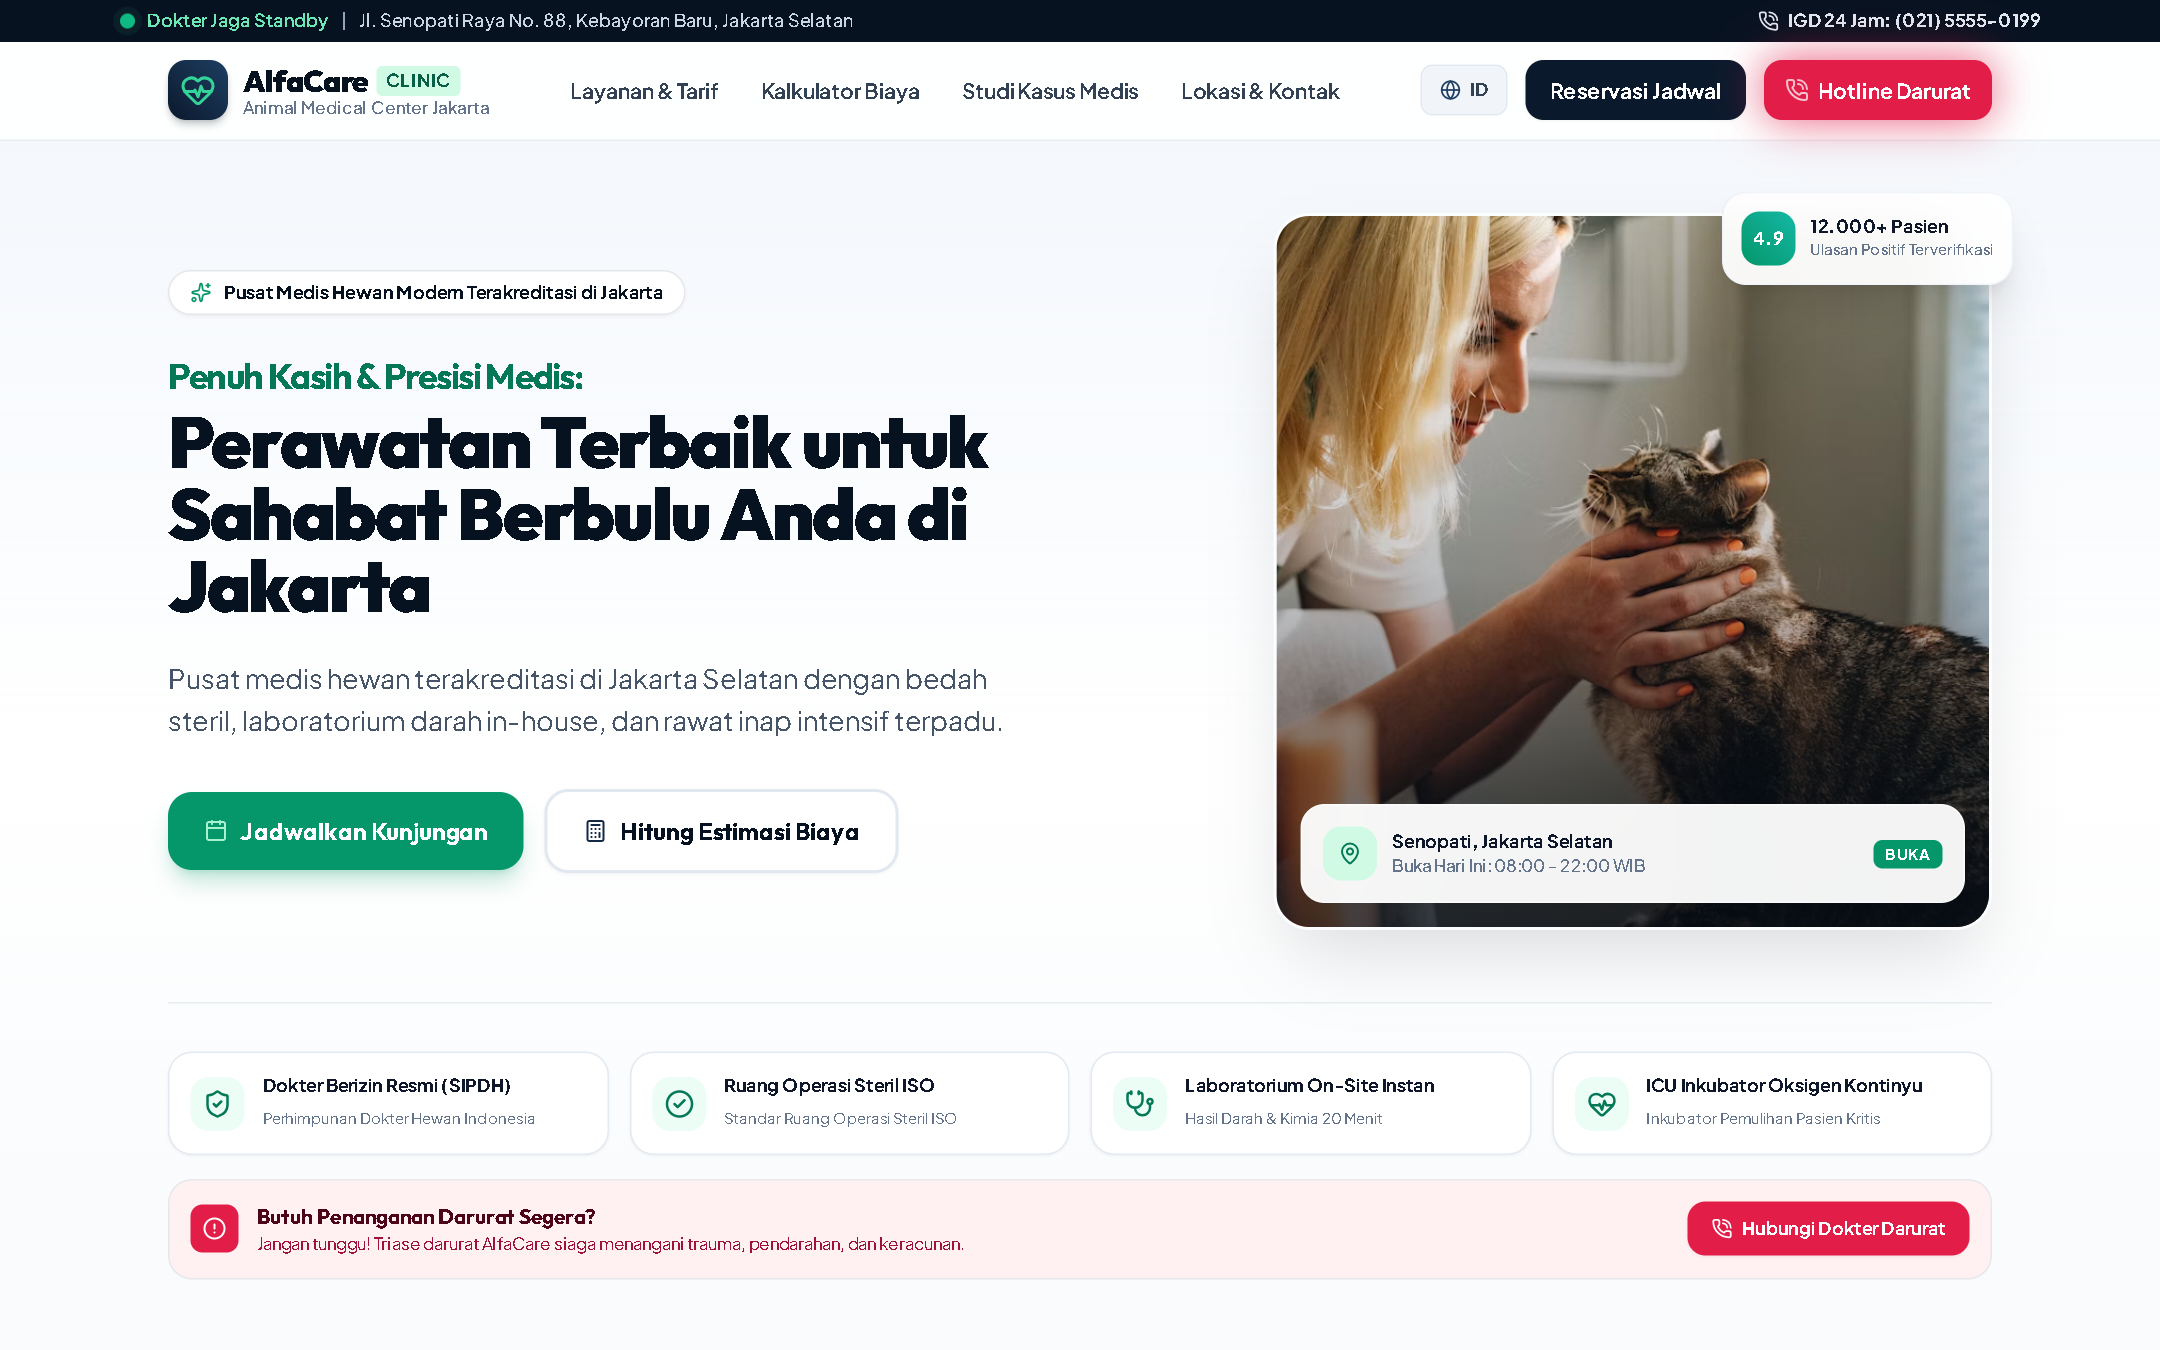
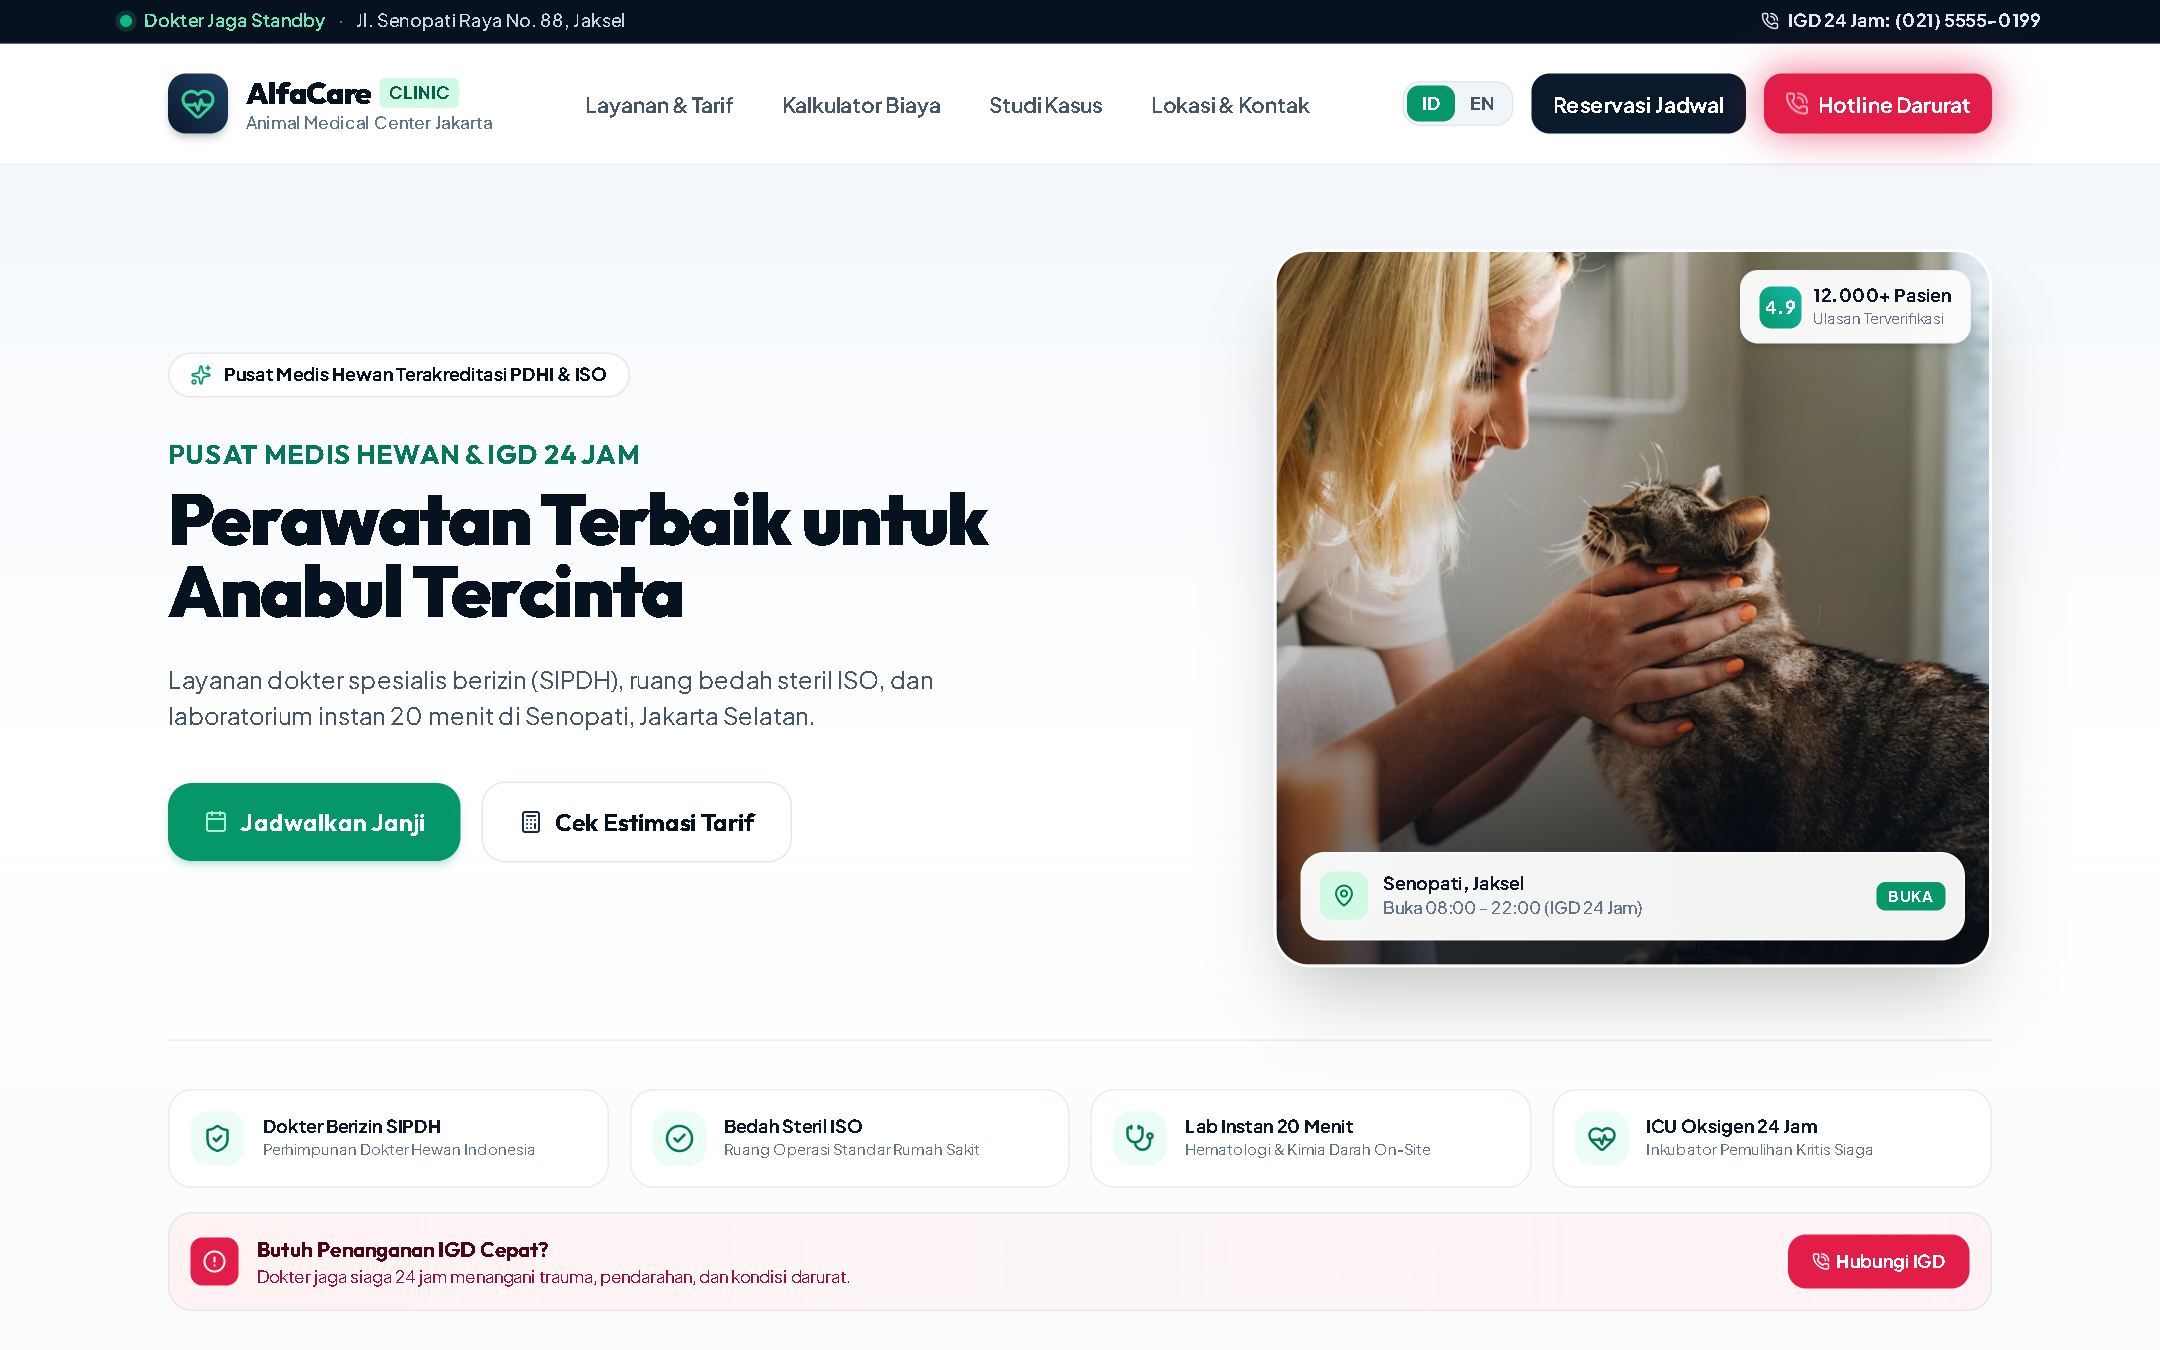
fix(ui): declutter navbar breathing room, localize 24/7 hotline, and add missing emergency triage screenshot

diff --git a/src/components/Navbar.tsx b/src/components/Navbar.tsx
@@ -19,9 +19,9 @@ export const Navbar: React.FC<NavbarProps> = ({ currentLocale, onLocaleChange })
   };
 
   return (
-    <header className="sticky top-0 z-40 w-full border-b border-slate-200/80 bg-white/90 backdrop-blur-md transition-all">
+    <header className="sticky top-0 z-40 w-full border-b border-slate-200/80 bg-white/95 backdrop-blur-md transition-all shadow-xs">
       {/* Top Banner: Status Dokter Jaga & Lokasi */}
-      <div className="bg-brand-900 text-slate-200 px-3.5 sm:px-4 py-1.5 text-[11px] sm:text-xs font-medium border-b border-brand-800/60">
+      <div className="bg-brand-900 text-slate-200 px-3.5 sm:px-6 lg:px-8 py-1.5 text-[11px] sm:text-xs font-medium border-b border-brand-800/60">
         <div className="max-w-7xl mx-auto flex items-center justify-between">
           <div className="flex items-center gap-2">
             <span className="relative flex h-2 w-2">
@@ -39,51 +39,53 @@ export const Navbar: React.FC<NavbarProps> = ({ currentLocale, onLocaleChange })
               className="flex items-center gap-1.5 text-urgent-400 hover:text-urgent-300 font-bold transition-colors"
             >
               <PhoneCall className="w-3 h-3" />
-              <span className="sm:hidden">IGD 24 Jam</span>
-              <span className="hidden sm:inline">IGD 24 Jam: (021) 5555-0199</span>
+              <span className="sm:hidden">{currentLocale === 'id' ? 'IGD 24 Jam' : '24/7 ER'}</span>
+              <span className="hidden sm:inline">
+                {currentLocale === 'id' ? 'IGD 24 Jam: (021) 5555-0199' : '24/7 ER: (021) 5555-0199'}
+              </span>
             </a>
           </div>
         </div>
       </div>
 
       {/* Main Navigation Bar */}
-      <div className="max-w-7xl mx-auto px-4 sm:px-6 lg:px-8 h-18 py-3 flex items-center justify-between">
+      <div className="max-w-7xl mx-auto px-4 sm:px-6 lg:px-8 h-20 flex items-center justify-between gap-4">
         {/* Brand Logo */}
-        <a href="#" className="flex items-center gap-2.5 group">
+        <a href="#" className="flex items-center gap-2.5 sm:gap-3 group shrink-0">
           <div className="w-10 h-10 rounded-xl bg-gradient-to-tr from-brand-800 to-brand-600 flex items-center justify-center text-white shadow-md shadow-brand-900/20 group-hover:scale-105 transition-transform">
             <HeartPulse className="w-6 h-6 text-emerald-400" />
           </div>
           <div className="flex flex-col">
             <div className="flex items-center gap-1.5">
               <span className="font-heading font-black text-xl text-brand-900 tracking-tight">AlfaCare</span>
-              <span className="text-xs font-bold uppercase tracking-wider bg-emerald-100 text-emerald-800 px-1.5 py-0.5 rounded">
+              <span className="text-[11px] font-bold uppercase tracking-wider bg-emerald-100 text-emerald-800 px-1.5 py-0.5 rounded">
                 Clinic
               </span>
             </div>
-            <span className="text-[11px] font-medium text-slate-500 -mt-1 tracking-wide">
+            <span className="hidden xl:block text-[11px] font-medium text-slate-500 -mt-0.5 tracking-wide">
               Animal Medical Center Jakarta
             </span>
           </div>
         </a>
 
-        {/* Desktop Navigation Links */}
-        <nav className="hidden md:flex items-center gap-7 text-sm font-semibold text-slate-700">
-          <a href="#services" className="hover:text-brand-700 transition-colors">
+        {/* Desktop Navigation Links (Visible on lg and above) */}
+        <nav className="hidden lg:flex items-center gap-5 xl:gap-8 text-[13px] xl:text-sm font-semibold text-slate-600 tracking-normal">
+          <a href="#services" className="hover:text-brand-900 transition-colors whitespace-nowrap">
             {t.services}
           </a>
-          <a href="#estimator" className="hover:text-brand-700 transition-colors">
+          <a href="#estimator" className="hover:text-brand-900 transition-colors whitespace-nowrap">
             {t.estimator}
           </a>
-          <a href="#cases" className="hover:text-brand-700 transition-colors">
+          <a href="#cases" className="hover:text-brand-900 transition-colors whitespace-nowrap">
             {t.cases}
           </a>
-          <a href="#location" className="hover:text-brand-700 transition-colors">
+          <a href="#location" className="hover:text-brand-900 transition-colors whitespace-nowrap">
             {t.location}
           </a>
         </nav>
 
-        {/* Right CTA Actions */}
-        <div className="hidden md:flex items-center gap-3">
+        {/* Right CTA Actions (Visible on lg and above) */}
+        <div className="hidden lg:flex items-center gap-2.5 xl:gap-3 shrink-0">
           {/* Segmented Language Selector */}
           <div className="inline-flex items-center rounded-xl bg-slate-100 p-0.5 border border-slate-200">
             <button
@@ -115,7 +117,7 @@ export const Navbar: React.FC<NavbarProps> = ({ currentLocale, onLocaleChange })
           {/* Book Appointment CTA Button */}
           <a
             href="#booking"
-            className="bg-brand-800 hover:bg-brand-900 text-white text-sm font-bold px-4 py-2.5 rounded-xl shadow-sm hover:shadow transition-all flex items-center gap-1.5"
+            className="bg-brand-800 hover:bg-brand-900 text-white text-xs xl:text-sm font-bold px-3.5 py-2.5 xl:px-4.5 xl:py-2.5 rounded-xl shadow-sm hover:shadow transition-all flex items-center gap-1.5 whitespace-nowrap"
           >
             <span>{t.booking}</span>
           </a>
@@ -125,15 +127,16 @@ export const Navbar: React.FC<NavbarProps> = ({ currentLocale, onLocaleChange })
             href="https://wa.me/6281188997700?text=Halo%20Dokter%20Darurat%20AlfaCare%20Jakarta,%20saya%20membutuhkan%20bantuan%20segera%20untuk%20hewan%20saya"
             target="_blank"
             rel="noopener noreferrer"
-            className="bg-urgent-600 hover:bg-urgent-700 text-white text-sm font-bold px-3.5 py-2.5 rounded-xl shadow-md shadow-urgent-600/20 emergency-glow transition-all flex items-center gap-1.5"
+            className="bg-urgent-600 hover:bg-urgent-700 text-white text-xs xl:text-sm font-bold px-3 py-2.5 xl:px-3.5 xl:py-2.5 rounded-xl shadow-md shadow-urgent-600/20 emergency-glow transition-all flex items-center gap-1.5 whitespace-nowrap"
           >
-            <PhoneCall className="w-4 h-4 animate-pulse" />
-            <span>Hotline Darurat</span>
+            <PhoneCall className="w-3.5 h-3.5 xl:w-4 xl:h-4 animate-pulse" />
+            <span>{currentLocale === 'id' ? 'Hotline Darurat' : '24/7 Hotline'}</span>
           </a>
         </div>
 
-        {/* Mobile Actions: Segmented Language & Hamburger */}
-        <div className="flex md:hidden items-center gap-2">
+        {/* Mobile & Tablet Actions (< lg) */}
+        <div className="flex lg:hidden items-center gap-2 sm:gap-2.5">
+          {/* Segmented Language Selector */}
           <div className="inline-flex items-center rounded-lg bg-slate-100 p-0.5 border border-slate-200">
             <button
               type="button"
@@ -158,9 +161,22 @@ export const Navbar: React.FC<NavbarProps> = ({ currentLocale, onLocaleChange })
               EN
             </button>
           </div>
+
+          {/* Tablet-only quick hotline call button */}
+          <a
+            href="https://wa.me/6281188997700?text=Halo%20Dokter%20Darurat%20AlfaCare%20Jakarta,%20saya%20membutuhkan%20bantuan%20segera%20untuk%20hewan%20saya"
+            target="_blank"
+            rel="noopener noreferrer"
+            className="hidden sm:inline-flex md:inline-flex items-center gap-1.5 bg-urgent-600 text-white text-xs font-bold px-3 py-1.5 rounded-lg shadow-sm"
+          >
+            <PhoneCall className="w-3.5 h-3.5" />
+            <span>{currentLocale === 'id' ? 'Hotline' : '24/7 Hotline'}</span>
+          </a>
+
+          {/* Hamburger Menu Button */}
           <button
             onClick={() => setMobileMenuOpen(!mobileMenuOpen)}
-            className="p-2 text-slate-700 hover:text-brand-900 focus:outline-none"
+            className="p-2 text-slate-700 hover:text-brand-900 focus:outline-none rounded-lg hover:bg-slate-100 transition-colors"
             aria-label="Toggle Menu"
           >
             {mobileMenuOpen ? <X className="w-6 h-6" /> : <Menu className="w-6 h-6" />}
@@ -168,51 +184,51 @@ export const Navbar: React.FC<NavbarProps> = ({ currentLocale, onLocaleChange })
         </div>
       </div>
 
-      {/* Mobile Drawer */}
+      {/* Mobile & Tablet Drawer (< lg) */}
       {mobileMenuOpen && (
-        <div className="md:hidden border-t border-slate-200 bg-white px-4 pt-3 pb-6 space-y-3">
+        <div className="lg:hidden border-t border-slate-200 bg-white px-4 pt-3 pb-6 space-y-3 shadow-xl">
           <a
             href="#services"
             onClick={() => setMobileMenuOpen(false)}
-            className="block text-base font-semibold text-slate-800 py-2 border-b border-slate-100"
+            className="block text-base font-semibold text-slate-800 py-2.5 border-b border-slate-100 hover:text-brand-800 transition-colors"
           >
             {t.services}
           </a>
           <a
             href="#estimator"
             onClick={() => setMobileMenuOpen(false)}
-            className="block text-base font-semibold text-slate-800 py-2 border-b border-slate-100"
+            className="block text-base font-semibold text-slate-800 py-2.5 border-b border-slate-100 hover:text-brand-800 transition-colors"
           >
             {t.estimator}
           </a>
           <a
             href="#cases"
             onClick={() => setMobileMenuOpen(false)}
-            className="block text-base font-semibold text-slate-800 py-2 border-b border-slate-100"
+            className="block text-base font-semibold text-slate-800 py-2.5 border-b border-slate-100 hover:text-brand-800 transition-colors"
           >
             {t.cases}
           </a>
           <a
             href="#location"
             onClick={() => setMobileMenuOpen(false)}
-            className="block text-base font-semibold text-slate-800 py-2 border-b border-slate-100"
+            className="block text-base font-semibold text-slate-800 py-2.5 border-b border-slate-100 hover:text-brand-800 transition-colors"
           >
             {t.location}
           </a>
-          <div className="pt-2 flex flex-col gap-2">
+          <div className="pt-3 flex flex-col gap-2.5">
             <a
               href="#booking"
               onClick={() => setMobileMenuOpen(false)}
-              className="w-full text-center bg-brand-800 text-white font-bold py-3 rounded-xl"
+              className="w-full text-center bg-brand-800 hover:bg-brand-900 text-white font-bold py-3 rounded-xl shadow-sm transition-all"
             >
               {t.booking}
             </a>
             <a
               href="tel:+622155550199"
-              className="w-full text-center bg-urgent-600 text-white font-bold py-3 rounded-xl flex items-center justify-center gap-2"
+              className="w-full text-center bg-urgent-600 hover:bg-urgent-700 text-white font-bold py-3 rounded-xl flex items-center justify-center gap-2 shadow-sm transition-all"
             >
               <PhoneCall className="w-4 h-4" />
-              <span>Hubungi Dokter IGD (24 Jam)</span>
+              <span>{currentLocale === 'id' ? 'Hubungi Dokter IGD (24 Jam)' : 'Call 24/7 Emergency Vet'}</span>
             </a>
           </div>
         </div>

diff --git a/src/data/translations.ts b/src/data/translations.ts
@@ -4,7 +4,7 @@ export const DICTIONARY = {
       services: 'Layanan & Tarif',
       estimator: 'Kalkulator Biaya',
       booking: 'Reservasi Jadwal',
-      cases: 'Studi Kasus Medis',
+      cases: 'Studi Kasus',
       location: 'Lokasi & Kontak',
       emergencyHotline: 'Hotline Darurat 24 Jam',
       doctorOnDuty: 'Dokter Jaga Standby',
@@ -162,7 +162,7 @@ export const DICTIONARY = {
       services: 'Services & Fees',
       estimator: 'Cost Estimator',
       booking: 'Book Appointment',
-      cases: 'Medical Case Studies',
+      cases: 'Case Studies',
       location: 'Location & Contact',
       emergencyHotline: '24/7 Emergency Hotline',
       doctorOnDuty: 'Vet On Duty Standby',

diff --git a/scripts/capture-screenshots.js b/scripts/capture-screenshots.js
@@ -17,8 +17,9 @@ async function capture() {
   const page = await browser.newPage();
   await page.setViewport({ width: 1440, height: 900, deviceScaleFactor: 1.5 });
 
-  console.log('Navigating to live URL...');
-  await page.goto('https://alfacare-animal-clinic.vercel.app/', { waitUntil: 'networkidle0', timeout: 30000 });
+  const targetUrl = process.env.APP_URL || 'http://localhost:3000';
+  console.log(`Navigating to ${targetUrl}...`);
+  await page.goto(targetUrl, { waitUntil: 'networkidle0', timeout: 30000 });
 
   // 1. Hero Showcase (Full viewport with sticky header and badges)
   console.log('Capturing Hero Section...');

diff --git a/src/components/EmergencyTriageGuide.tsx b/src/components/EmergencyTriageGuide.tsx
@@ -58,7 +58,7 @@ export const EmergencyTriageGuide: React.FC<EmergencyTriageGuideProps> = ({ curr
       ];
 
   return (
-    <section className="py-16 lg:py-24 bg-slate-50 border-b border-slate-200">
+    <section id="emergency" className="py-16 lg:py-24 bg-slate-50 border-b border-slate-200">
       <div className="max-w-7xl mx-auto px-4 sm:px-6 lg:px-8">
         {/* Authoritative Emergency Command Card Container */}
         <div className="bg-[#071220] text-white rounded-3xl p-7 sm:p-10 border border-slate-800 shadow-2xl relative overflow-hidden">
